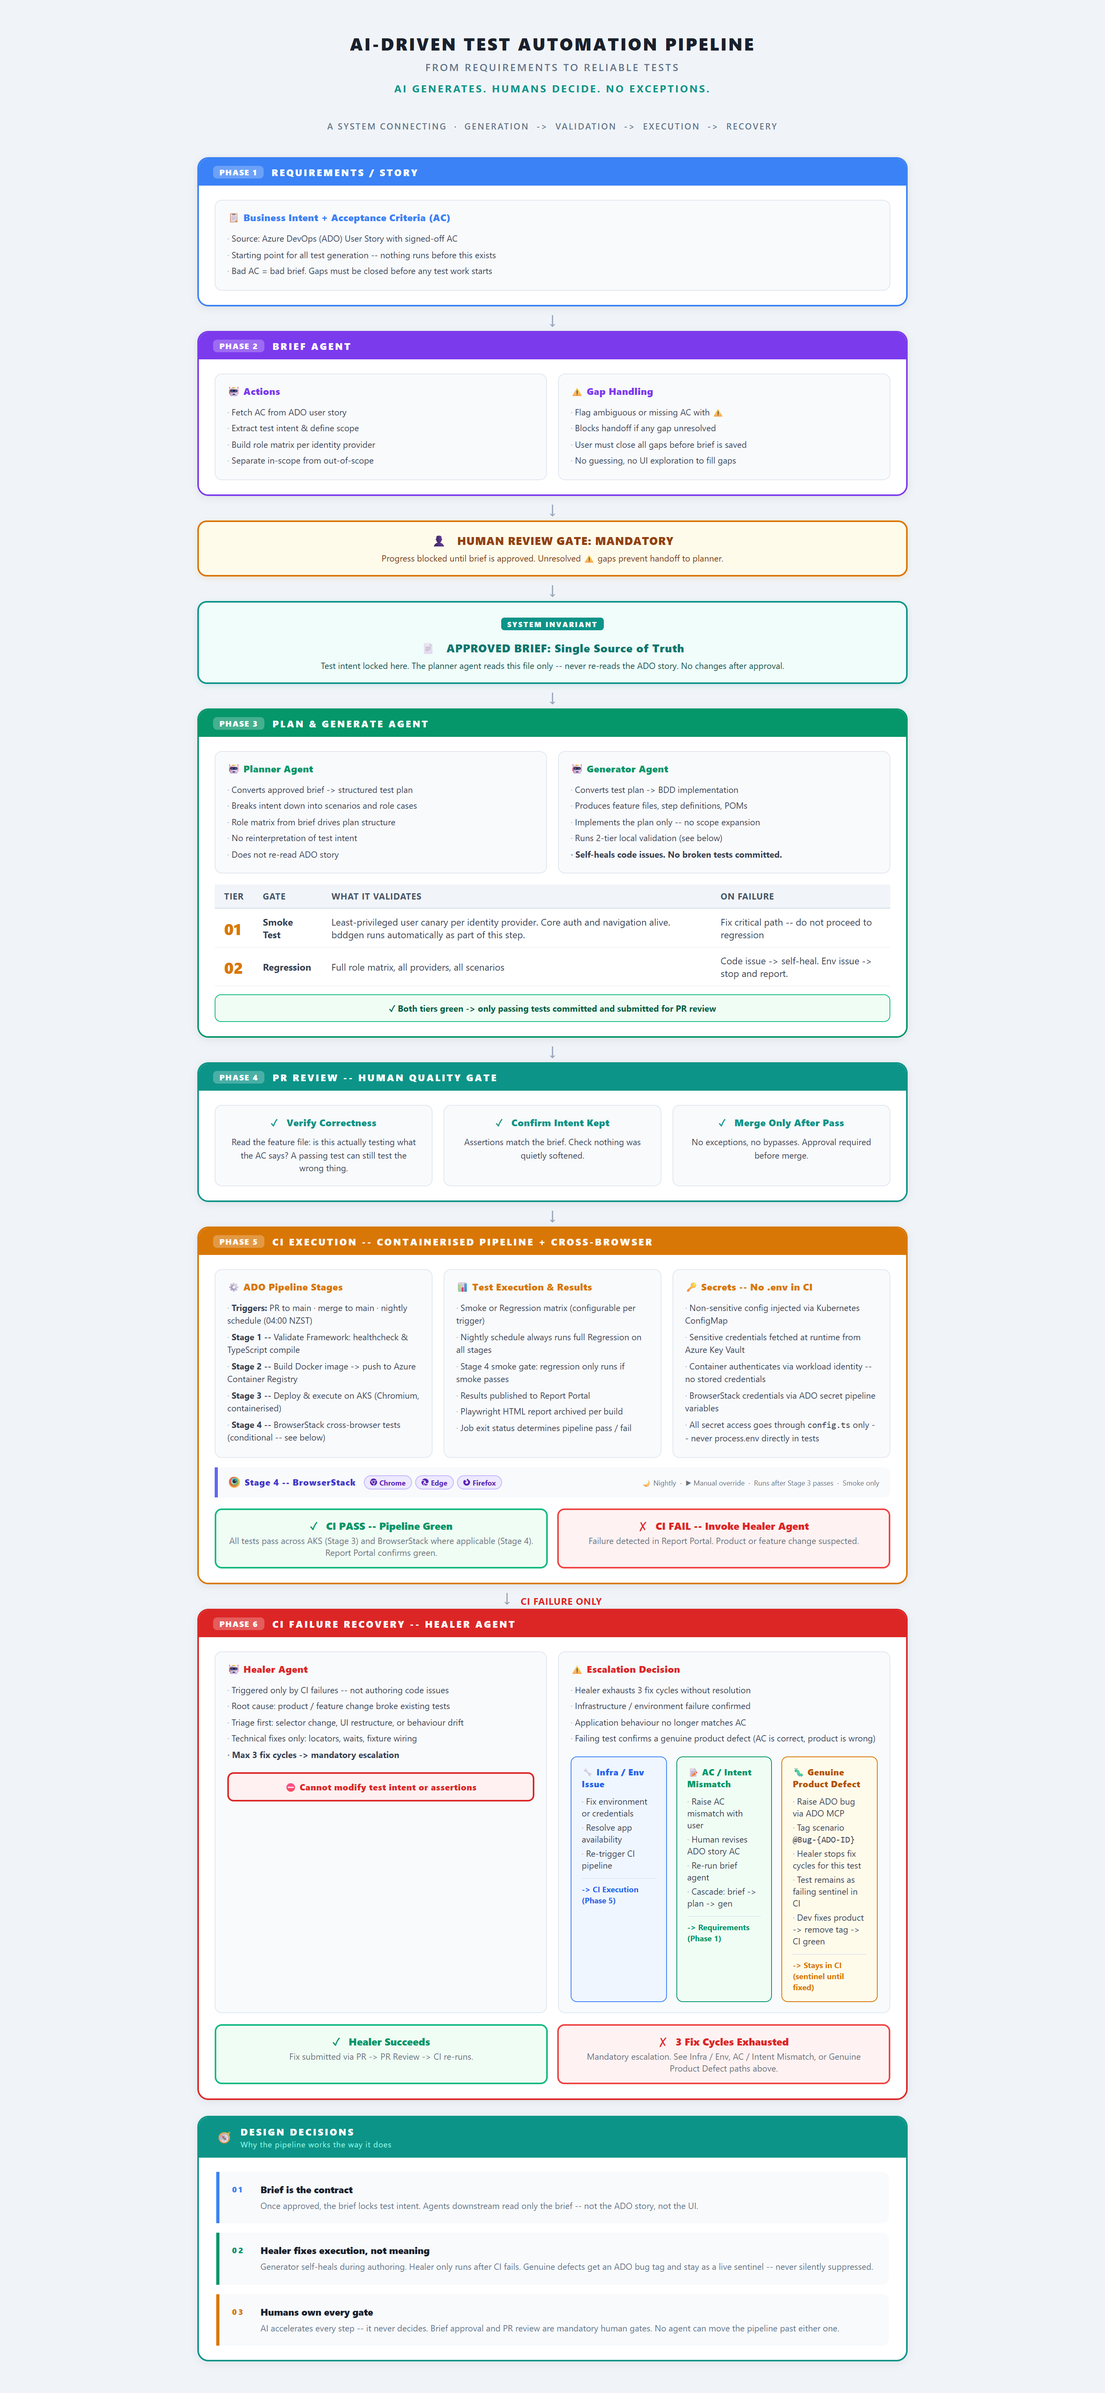
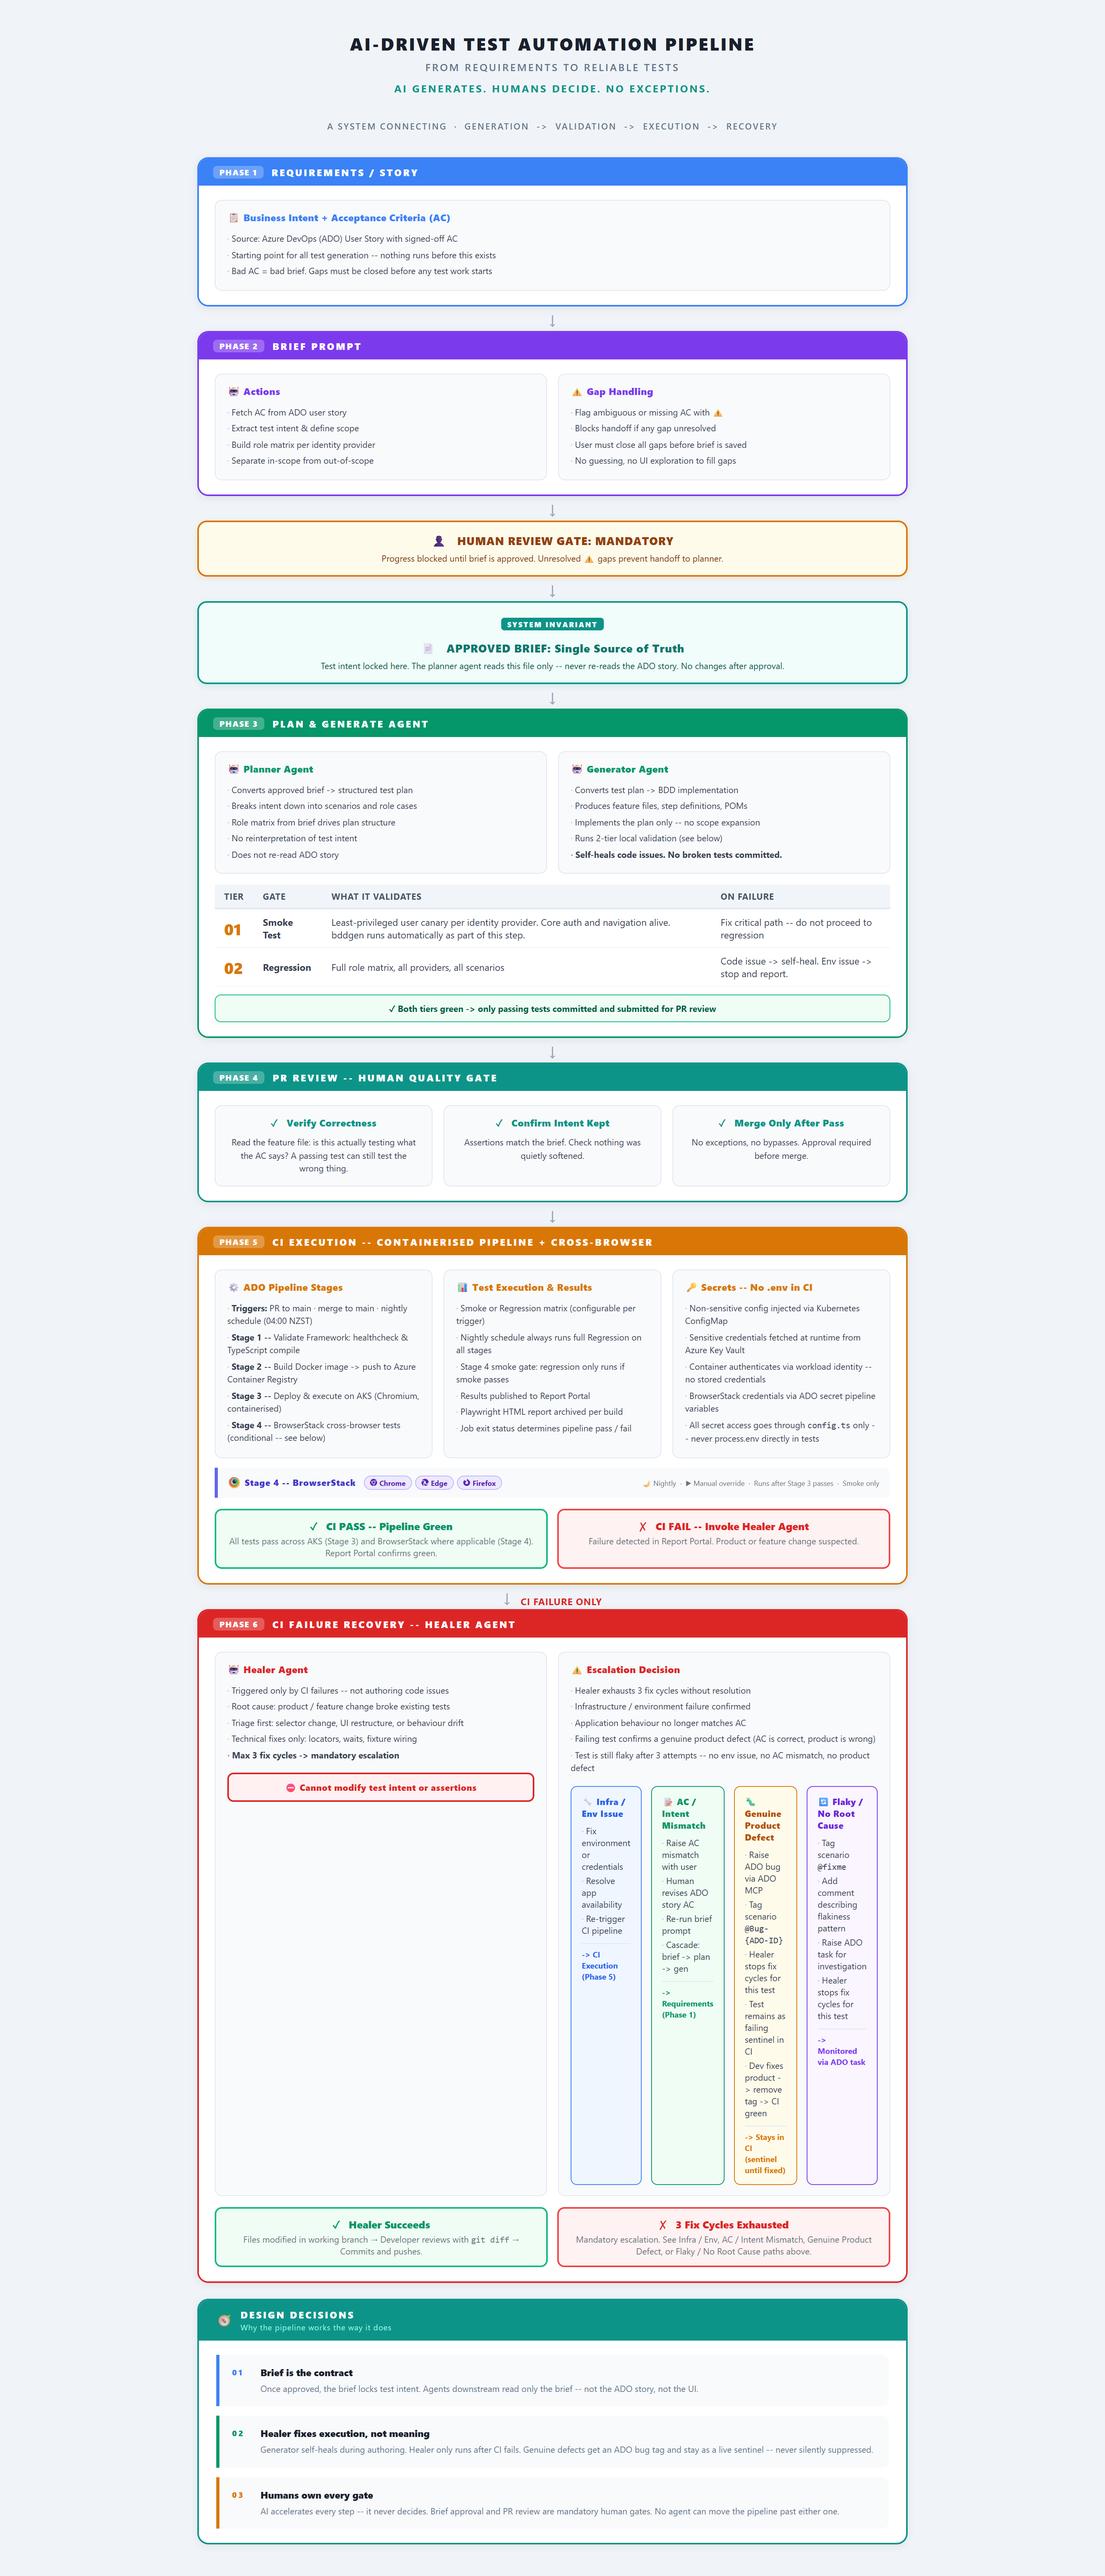
Document healer handoff and flaky failure path

Changed region(s): [[0.1554, 0.0, 0.8389, 0.998]]

diff --git a/docs/human-governed-ai-testing-pipeline.md b/docs/human-governed-ai-testing-pipeline.md
@@ -298,7 +298,7 @@ The rule is simple:
 
 ## Failure Classification
 
-When CI fails, classify the failure into one of three categories.
+When CI fails, classify the failure before changing the test.
 
 ### 1. Infrastructure or Environment Issue
 
@@ -312,7 +312,22 @@ Examples:
 
 The response is to fix the environment and rerun CI.
 
-### 2. Acceptance Criteria or Intent Mismatch
+### 2. Test Implementation Drift
+
+Sometimes the product behavior is still correct, but the test implementation has drifted.
+
+Examples:
+
+- A stable locator changed.
+- A component was restructured.
+- A timing assumption is no longer valid.
+- Fixture wiring no longer matches the runtime flow.
+
+This is the safe zone for a healer agent.
+
+The healer can repair execution mechanics, validate the fix, and hand the diff back for human review.
+
+### 3. Acceptance Criteria or Intent Mismatch
 
 Sometimes the product has changed because the requirement has changed, but the test intent has not been updated.
 
@@ -320,7 +335,7 @@ In that case, the right fix is not a silent test update.
 
 The story, brief, test plan, and implementation need to be reviewed and cascaded properly.
 
-### 3. Genuine Product Defect
+### 4. Genuine Product Defect
 
 Sometimes the test is correct and the product is wrong.
 
@@ -329,6 +344,40 @@ In that case, the test should remain a sentinel.
 The correct response is to raise a defect, link it to the failing scenario, and keep the signal visible until the product is fixed.
 
 Do not hide real product failures behind self-healing.
+
+### 5. Flaky / No Identifiable Root Cause
+
+Sometimes a scenario is still non-deterministic after bounded fix attempts, and no clear environment issue, intent mismatch, implementation drift, or product defect can be confirmed.
+
+That case needs its own path.
+
+The wrong response is to keep patching indefinitely.
+
+The safer response is:
+
+- Stop fix cycles.
+- Mark the scenario as under investigation.
+- Record the observed flakiness pattern.
+- Create an investigation task in the team's issue tracker.
+- Keep the failure visible until a stable root cause is found.
+
+This prevents the healer from forcing a low-confidence fix into the suite just to make the current run pass.
+
+## Healer Handoff
+
+A healer agent should not silently commit, push, or open a pull request.
+
+When it succeeds, it should hand control back to the developer:
+
+- List every file changed.
+- Explain the diagnosed root cause.
+- Summarize the fix.
+- Provide the validation command and result.
+- Leave the changes in the working branch for review.
+
+The developer then reviews the diff and decides whether to commit.
+
+If the fix fails or escalation applies, the developer can discard the changes and follow the appropriate failure path.
 
 ## Design Decisions
 
@@ -350,7 +399,13 @@ The healer only runs after CI failure.
 
 If behavior has changed, the pipeline escalates instead of silently rewriting the test.
 
-### 3. Humans Own Every Gate
+### 3. Healer Changes Are Reviewed Before Commit
+
+The healer can edit files, but it does not own the merge decision.
+
+Its output is a proposed diff, not an approved change.
+
+### 4. Humans Own Every Gate
 
 AI accelerates the work.
 
@@ -361,6 +416,24 @@ It does not approve the PR.
 It does not decide that a failing assertion should be weakened.
 
 Human review is not an optional ceremony. It is the control system.
+
+## Operational Constraints
+
+AI-assisted testing also needs practical limits.
+
+A production workflow should define:
+
+- Maximum fix attempts per scenario
+- Maximum retry count before declaring a scenario flaky
+- Maximum scope of files the healer may edit
+- Required validation command before handoff
+- When to create an investigation task
+- When to stop and ask for human decision
+- How token usage, runtime, and review cost are tracked
+
+These constraints are not bureaucracy.
+
+They prevent an automation system from spending unlimited time and money trying to repair a test whose root cause is unclear.
 
 ## Why This Matters
 

diff --git a/docs/ai-test-review-checklist.md b/docs/ai-test-review-checklist.md
@@ -39,13 +39,17 @@ Use this checklist before approving AI-assisted test changes.
 - [ ] The test can run headless.
 - [ ] The test does not depend on local `.env` values in CI.
 - [ ] Failure artifacts are available through trace, screenshot, video, or reporting.
-- [ ] CI failure classification is clear: test issue, environment issue, requirement mismatch, or product defect.
+- [ ] CI failure classification is clear: implementation drift, environment issue, requirement mismatch, product defect, or flaky/no-root-cause.
 
 ## Self-Healing Boundaries
 
 - [ ] The healer only changed execution mechanics.
 - [ ] The healer did not remove or weaken assertions.
 - [ ] The healer did not change scenario intent.
+- [ ] The healer stopped after the agreed fix-attempt limit.
+- [ ] Flaky/no-root-cause failures were escalated for investigation instead of patched indefinitely.
+- [ ] Healer output was reviewed as a diff before commit.
+- [ ] The healer did not auto-commit, auto-push, or auto-create a pull request.
 - [ ] Genuine product defects remain visible.
 - [ ] Requirement changes are cascaded through brief, plan, and implementation.
 

diff --git a/README.md b/README.md
@@ -62,6 +62,9 @@ CI Execution
         |
         v
 Failure Recovery
+        |
+        v
+Human Handoff
 ```
 
 ## Design Principles
@@ -91,6 +94,12 @@ Humans review the brief.
 Humans review the PR.
 
 Humans decide whether a failing test represents a test issue, environment issue, requirement mismatch, or genuine product defect.
+
+### 5. Healer Output Is a Proposed Diff
+
+When a healer agent succeeds, it should leave reviewed changes in the working branch.
+
+It should not silently commit, push, or open a pull request.
 
 ## Recommended Reading Order
 
